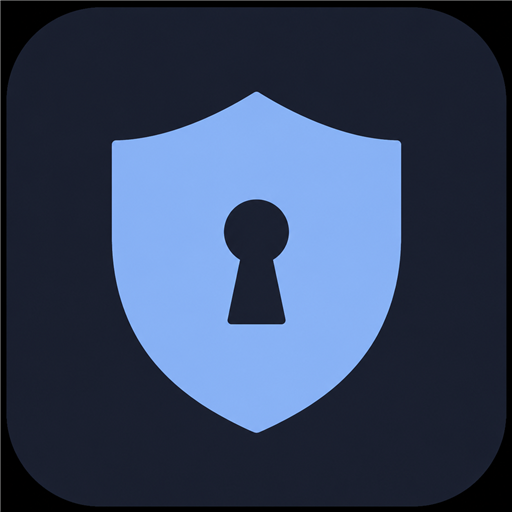
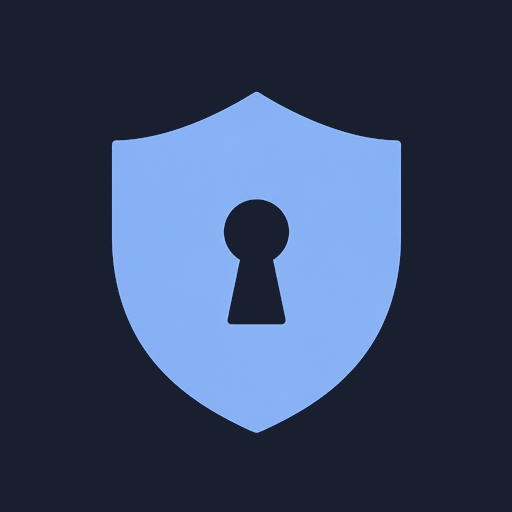
chore: finalize Modrinth publishing and project presentation

Changed region(s): [[0.0, 0.0, 1.0, 1.0]]

diff --git a/README.md b/README.md
@@ -1,7 +1,3 @@
-<p align="center">
-  <img src="https://raw.githubusercontent.com/miklires/mAuth/main/docs/assets/mauth-icon.png" alt="mAuth" width="160">
-</p>
-
 # mAuth
 
 mAuth handles account authentication for offline-mode and mixed-mode Minecraft networks. Password login, premium and Floodgate accounts, TOTP, recovery, active sessions, legacy imports, and proxy routing are included without requiring an external database.
